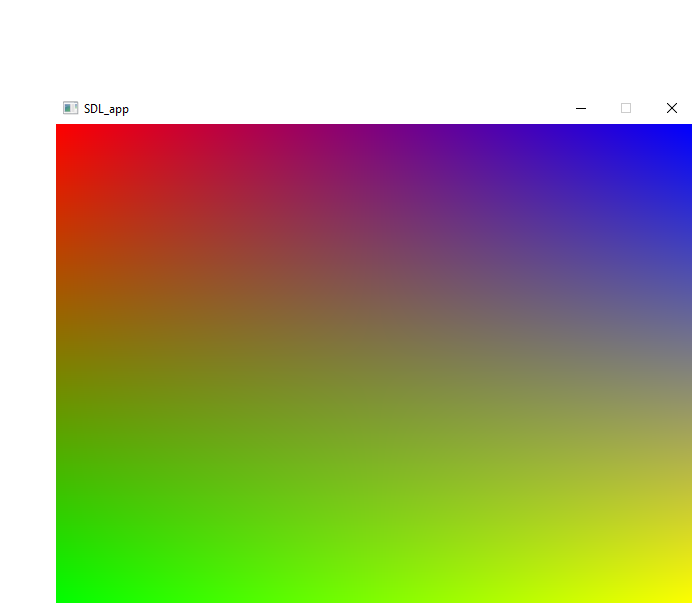
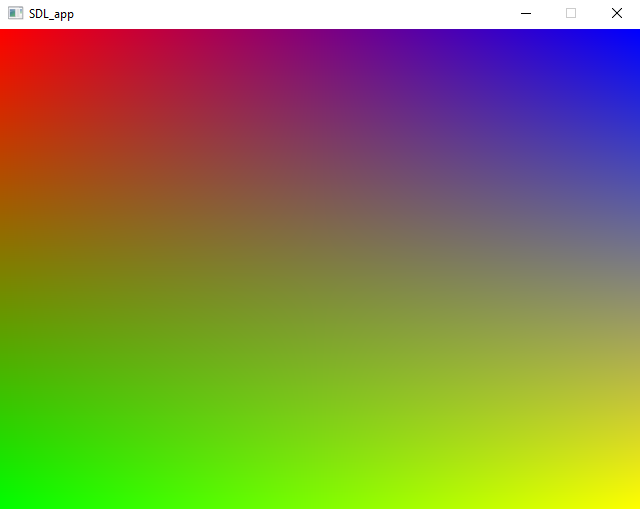
replaced rainbow interpolation image

diff --git a/Project1/Project1/Source.cpp b/Project1/Project1/Source.cpp
@@ -252,8 +252,8 @@ void DrawStars() {
 void Draw()
 {
 	//DrawRomanianFlag();
-	//DrawRainbow();
-	DrawStars();
+	DrawRainbow();
+	//DrawStars();
 
 
 	
